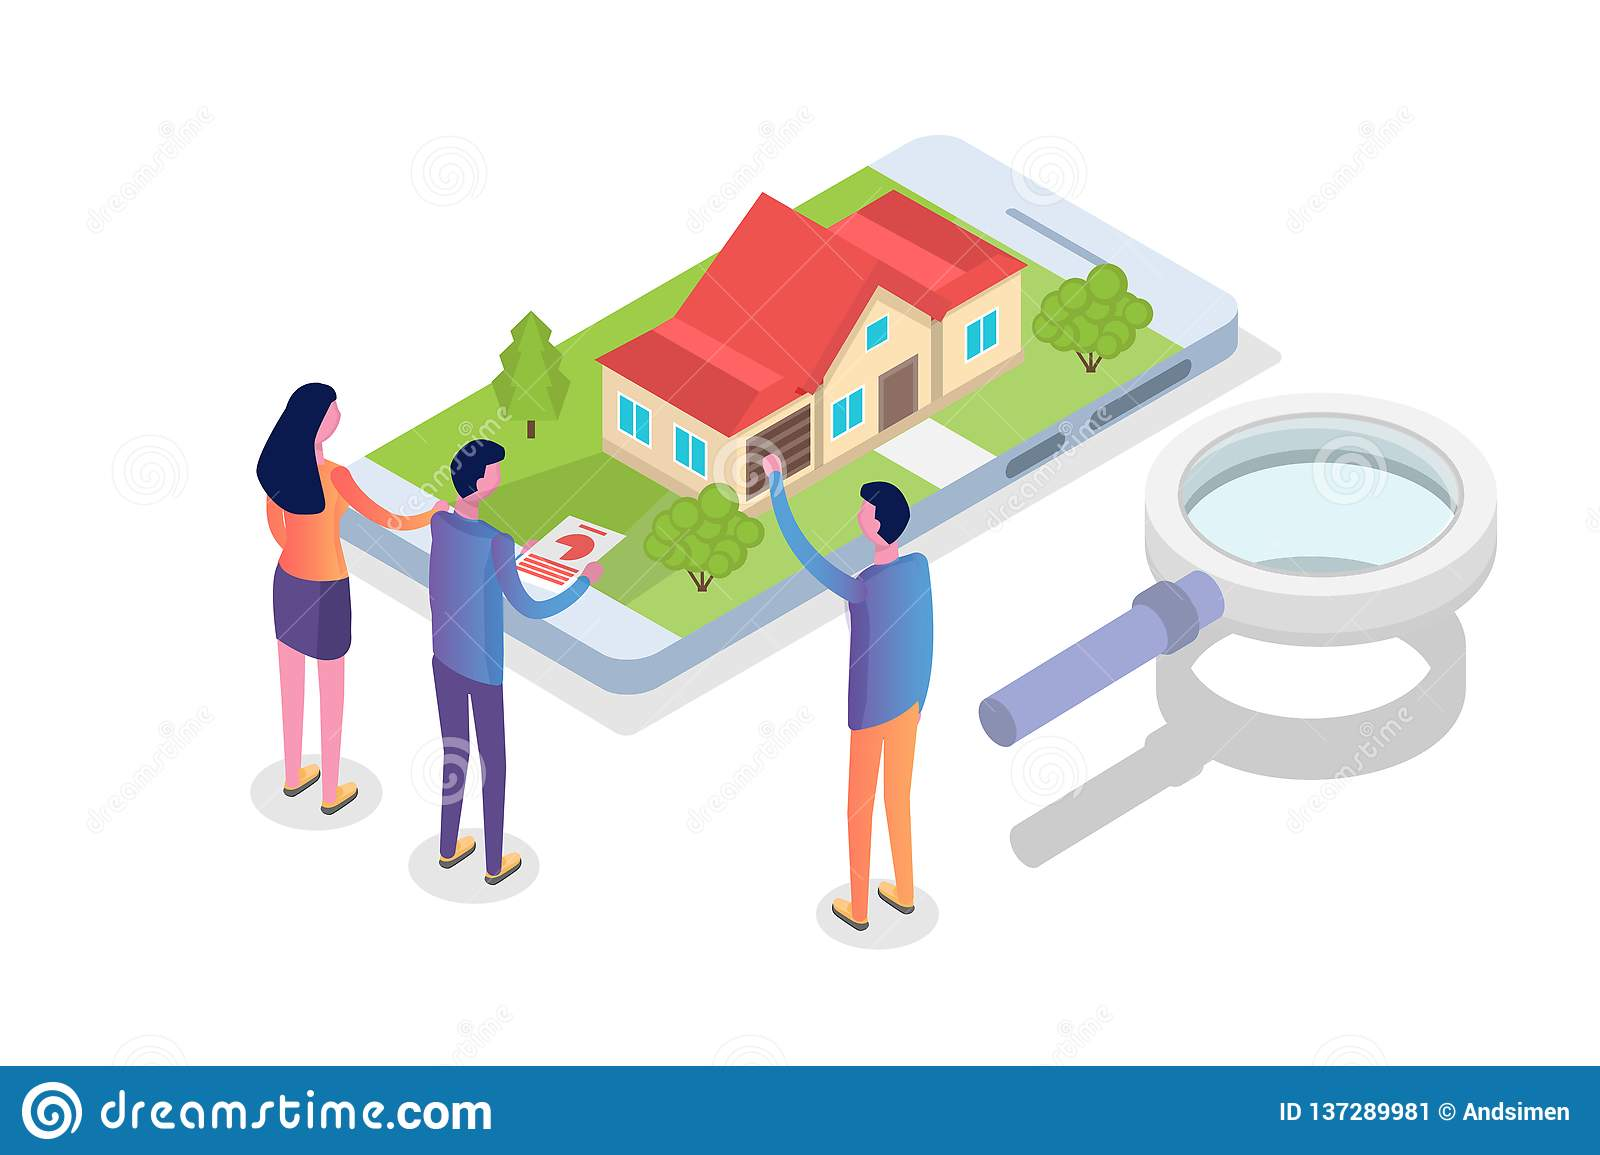
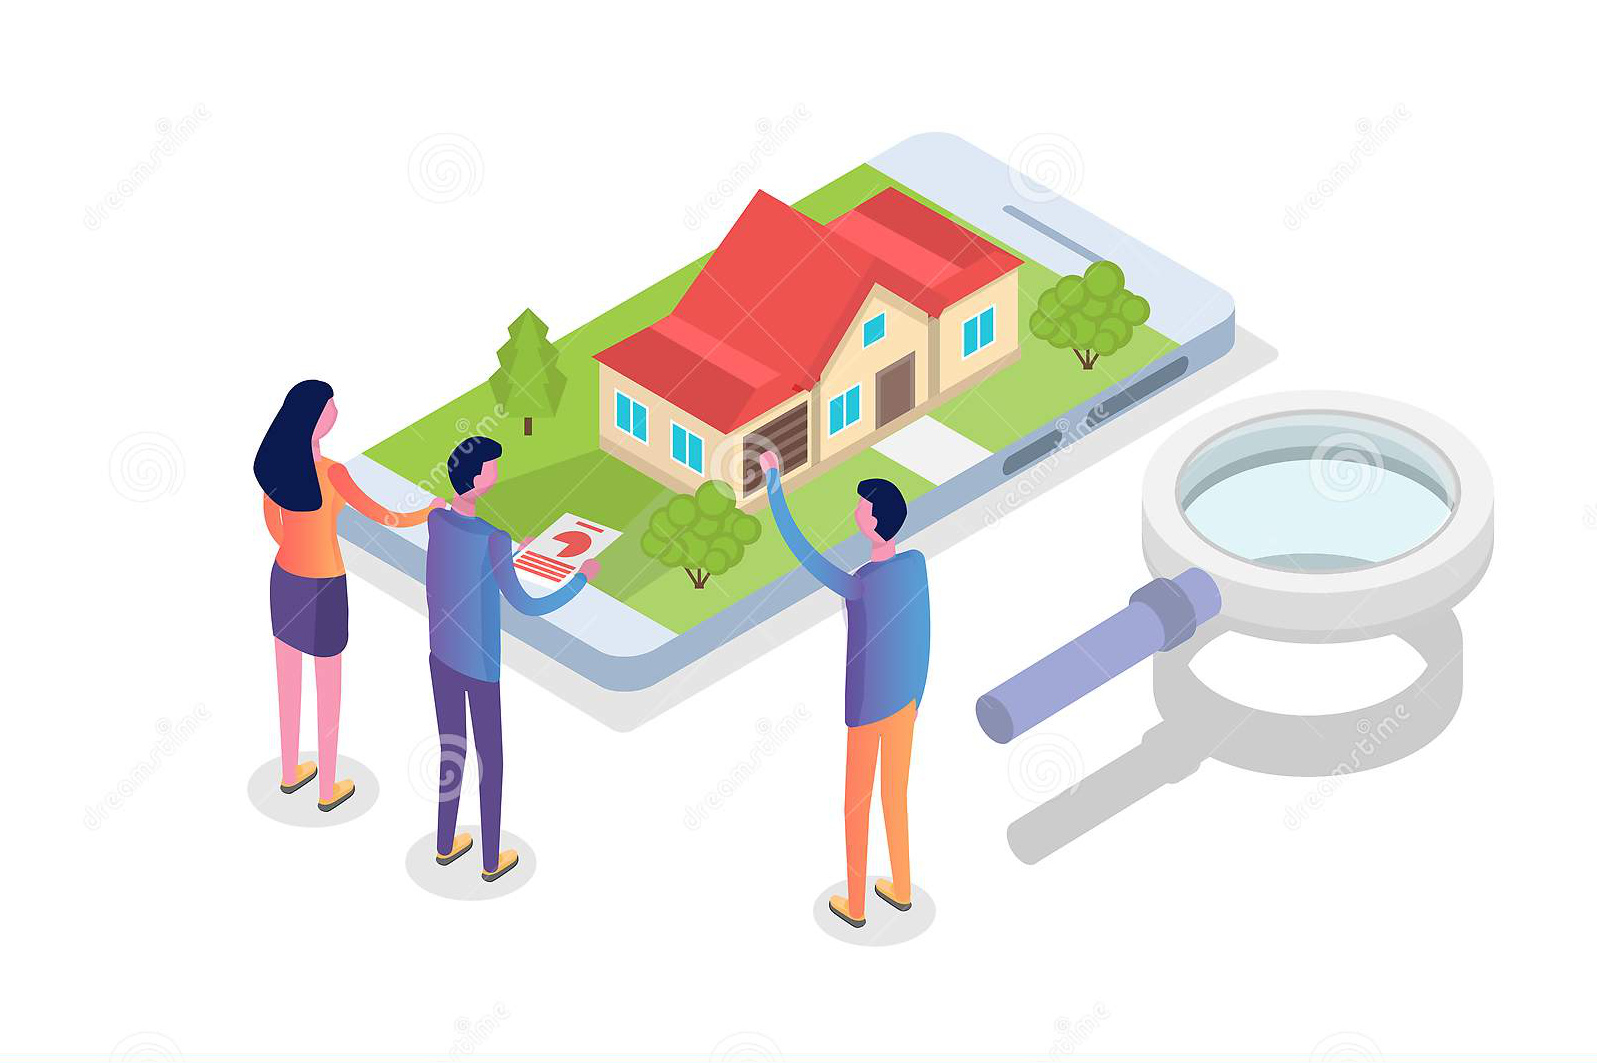
Continued work on content and layout, Add custom images

Changed region(s): [[0.1534, 0.0931, 0.9512, 0.8692], [0.0, 0.5898, 1.0, 1.0]]

diff --git a/src/pages/index.js b/src/pages/index.js
@@ -7,10 +7,15 @@ import Layout from '../components/layout/Layout';
 import SplitSection from '../components/SplitSection';
 import StatsBox from '../components/StatsBox';
 import customerData from '../data/customer-data';
-import HeroImage from '../svg/HeroImage';
 import SvgCharts from '../svg/SvgCharts';
 
 import data from "../data/content-data";
+
+import inspection from "../svg/inspection.jpg"
+import repairs from "../svg/repairs.webp" 
+import AndreaLogo from '../svg/andrea_logo_circle.png';
+import PricingCard from '../components/PricingCard';
+
 
 const Index = () => (
   <Layout>
@@ -18,6 +23,7 @@ const Index = () => (
       <div className="container mx-auto px-8 lg:flex">
         <div className="text-center lg:text-left lg:w-1/2">
           <h1 className="text-4xl lg:text-5xl xl:text-6xl font-bold leading-none">
+            {/* <img src={AndreaLogo} alt="A hand palming a building, Andrea stands below that logo." /> */}
             {data.mainTitle}
           </h1>
           <p className="text-xl lg:text-2xl mt-6 font-light">
@@ -29,7 +35,7 @@ const Index = () => (
           <p className="mt-4 text-gray-600">Sed fermentum felis ut cursu</p>
         </div>
         <div className="lg:w-1/2">
-          <HeroImage />
+          <img src={inspection} alt="Inspection Image" />
         </div>
       </div>
     </section>
@@ -54,21 +60,21 @@ const Index = () => (
       id="services"
       primarySlot={
         <div className="lg:pr-32 xl:pr-48">
-          <h3 className="text-3xl font-semibold leading-tight">Market Analysis</h3>
+          <h3 className="text-3xl font-semibold leading-tight">Customizable Inspection Forms</h3>
           <p className="mt-8 text-xl font-light leading-relaxed">
             Our team of enthusiastic marketers will analyse and evaluate how your company stacks
             against the closest competitors
           </p>
         </div>
       }
-      secondarySlot={<SvgCharts />}
+      secondarySlot={<img src={repairs} />}
     />
     <SplitSection
       reverseOrder
       primarySlot={
         <div className="lg:pl-32 xl:pl-48">
           <h3 className="text-3xl font-semibold leading-tight">
-            Design And Plan Your Business Growth Steps
+            Integration with repair platforms
           </h3>
           <p className="mt-8 text-xl font-light leading-relaxed">
             Once the market analysis process is completed our staff will search for opportunities
@@ -76,7 +82,7 @@ const Index = () => (
           </p>
         </div>
       }
-      secondarySlot={<SvgCharts />}
+      secondarySlot={<img src={inspection} />}
     />
     <SplitSection
       primarySlot={
@@ -90,7 +96,7 @@ const Index = () => (
           </p>
         </div>
       }
-      secondarySlot={<SvgCharts />}
+      secondarySlot={<img src={inspection} />}
     />
     <section id="stats" className="py-20 lg:pt-32">
       <div className="container mx-auto text-center">
@@ -108,21 +114,27 @@ const Index = () => (
         </div>
       </div>
     </section>
+
+
     <section id="testimonials" className="py-20 lg:py-40">
       <div className="container mx-auto">
-        <LabelText className="mb-8 text-gray-600 text-center">What customers are saying</LabelText>
+        <LabelText className="mb-8 text-gray-600 text-center">Subscription & Pricing</LabelText>
         <div className="flex flex-col md:flex-row md:-mx-3">
-          {customerData.map(customer => (
-            <div key={customer.customerName} className="flex-1 px-3">
-              <CustomerCard customer={customer} />
+          {data.pricing.map(pricingModel => (
+            <div key={pricingModel.customerName} className="flex-1 px-3">
+              <PricingCard pricingModel={pricingModel} />
             </div>
           ))}
         </div>
       </div>
     </section>
+
+
+
     <section className="container mx-auto my-20 py-24 bg-gray-200 rounded-lg text-center">
-      <h3 className="text-5xl font-semibold">Ready to grow your business?</h3>
+      <h3 className="text-5xl font-semibold">Ready to level up?</h3>
       <p className="mt-8 text-xl font-light">
+
         Quis lectus nulla at volutpat diam ut. Enim lobortis scelerisque fermentum dui faucibus in.
       </p>
       <p className="mt-8">

diff --git a/src/data/content-data.js b/src/data/content-data.js
@@ -14,5 +14,33 @@ export default {
             "title": "Predictive Maintance",
             "description": "An AI powered system will predict when maintenance are due and notify the affected parties in no time."
         }
+    ],
+
+
+    "pricing": [
+        {
+            title: 'Base Model',
+            content:
+                'Eu lobortis elementum nibh tellus molestie nunc non blandit massa. Sit amet consectetur adipiscing elit duis.',
+            customerName: 'Jane Doe',
+            customerTitle: 'Director of Research and Data',
+            customerImage: 'https://placeimg.com/150/150/people'
+        },
+        {
+            title: 'Normal Model',
+            content:
+                'Eu lobortis elementum nibh tellus molestie nunc non blandit massa. Sit amet consectetur adipiscing elit duis.',
+            customerName: 'John Doe',
+            customerTitle: 'Director of Research and Data',
+            customerImage: 'https://placeimg.com/150/150/people'
+        },
+        {
+            title: 'Premium Model',
+            content:
+                'Eu lobortis elementum nibh tellus molestie nunc non blandit massa. Sit amet consectetur adipiscing elit duis.',
+            customerName: 'Jane Smith',
+            customerTitle: 'Director of Research and Data',
+            customerImage: 'https://placeimg.com/150/150/people'
+        }
     ]
 }

diff --git a/src/components/layout/Header.js b/src/components/layout/Header.js
@@ -1,6 +1,7 @@
 import React from 'react';
 import AnchorLink from 'react-anchor-link-smooth-scroll';
 import LogoIcon from '../../svg/LogoIcon';
+import AndreaLogo from '../../svg/andrea_logo_circle.png';
 import Button from '../Button';
 
 import data from "../../data/content-data"
@@ -8,11 +9,11 @@ import data from "../../data/content-data"
 const Header = () => (
   <header className="sticky top-0 shadow bg-primary-100">
     <div className="container flex flex-col sm:flex-row justify-between items-center mx-auto py-4 px-8">
-      <div className="flex items-center text-2xl">
-        <div className="w-12 mr-3">
-          <LogoIcon />
+        <div className="w-24 mt-1">
+          <img src={AndreaLogo} alt="A hand palming a building, Andrea stands below that logo."/>
         </div>
-        { data.mainTitle }
+      <div className="flex items-center text-2xl">
+        {/* { data.mainTitle } */}
       </div>
       <div className="flex mt-4 sm:mt-0">
         <AnchorLink className="px-4" href="#features">

diff --git a/src/components/PricingCard.js b/src/components/PricingCard.js
@@ -1,0 +1,22 @@
+import React from 'react';
+import Card from './Card';
+
+const PricingCard = ({ pricingModel }) => (
+  <Card className="mb-8">
+    <p className="text-xl font-semibold">{pricingModel.title}</p>
+    <p className="mt-6">{pricingModel.content}</p>
+    <div className="flex items-center mt-8">
+      <img
+        className="w-12 h-12 mr-4 rounded-full"
+        src={pricingModel.customerImage}
+        alt={pricingModel.customerName}
+      />
+      <div>
+        <p>{pricingModel.customerName}</p>
+        <p className="text-sm text-gray-600">{pricingModel.customerTitle}</p>
+      </div>
+    </div>
+  </Card>
+);
+
+export default PricingCard;
